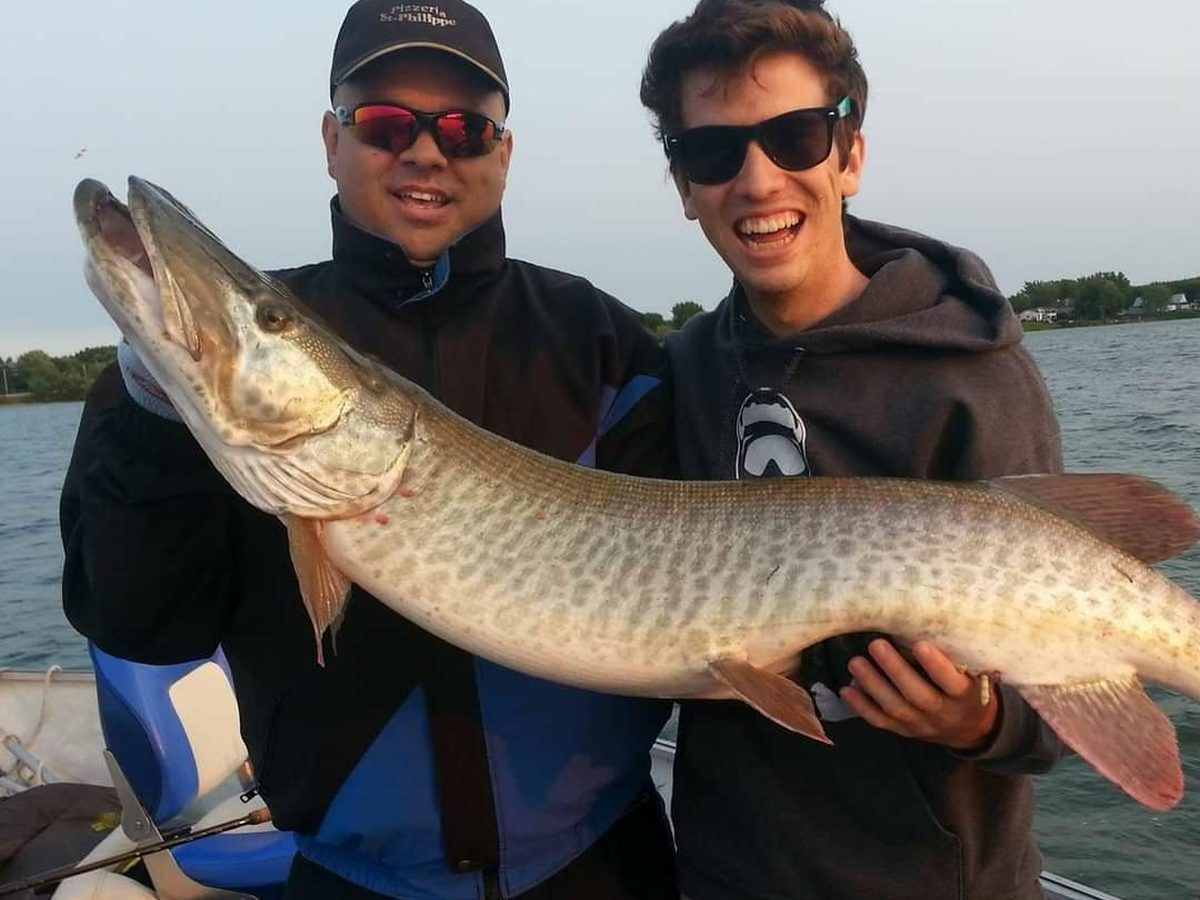
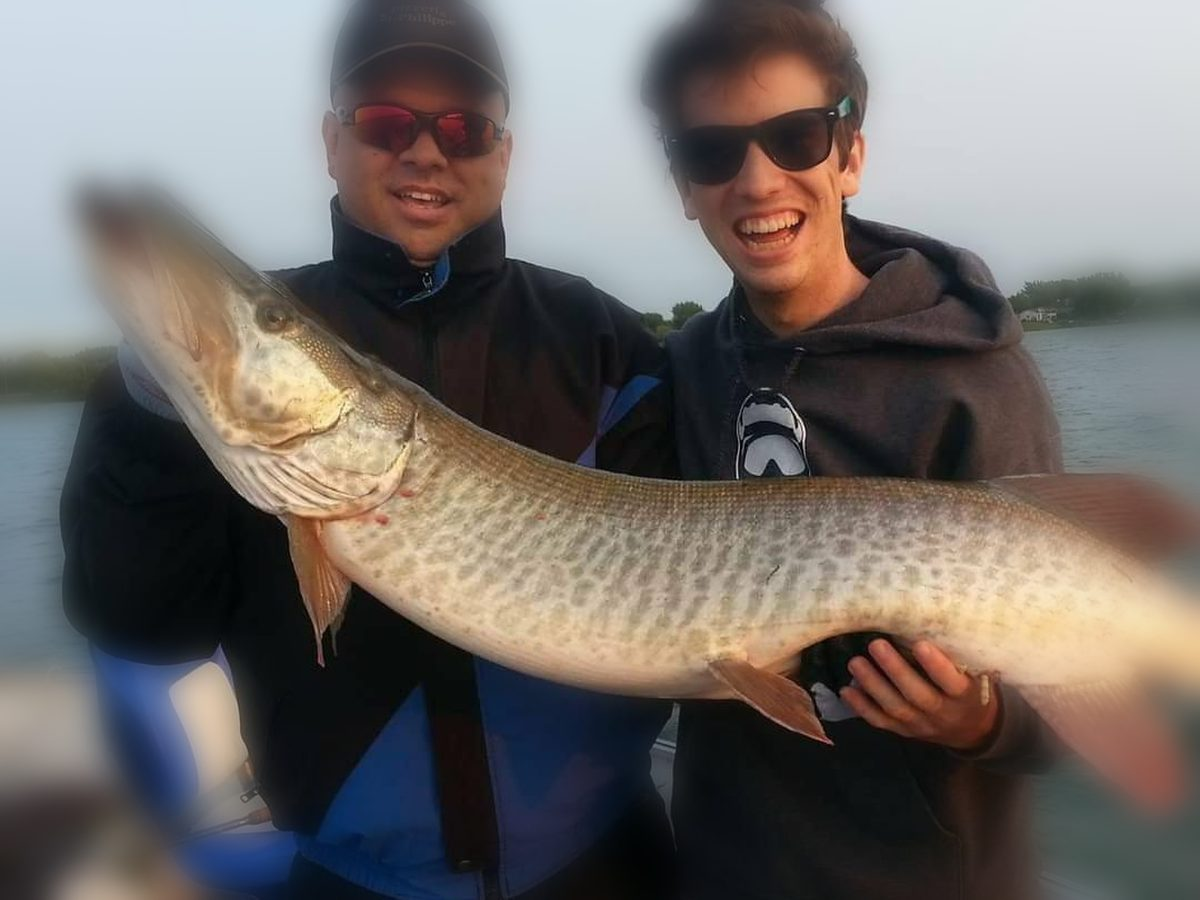
Flouter l'arrière-plan des photos de prises
Une rive, une tour de communication, un quai ou une maison suffisent à
situer un spot. Le décor des quatre photos est maintenant flouté, les
pêcheurs et les poissons restent nets.

Le masque est une union d'ellipses — une par pêcheur, une pour le poisson —
adoucie pour se lire comme une profondeur de champ plutôt qu'une retouche.
Une seule grande ellipse ne suffisait pas : elle englobe forcément ce qui
se trouve entre les sujets, et sur la photo de Kevin B. une tour de
communication passait pile entre les deux têtes. Elle a disparu; les
maisons de l'autre photo aussi.

Les trois images partagées avec la page Équipe sont floutées à la source
plutôt que dupliquées. Ne traiter que les copies des Prises aurait laissé
le décor identifiable sur l'autre page, ce qui n'aurait rien protégé.

Limite assumée : sans détourage automatique, ce qui se trouve directement
derrière une tête reste net. Il n'y reste que de la végétation générique,
aucun repère.

Effet secondaire : les zones floutées se compressent mieux, et les quatre
images pèsent maintenant 484 Ko au lieu de 760.

Claude-Session: https://claude.ai/code/session_01Xpd6edZqGyBhfo224pPL8k

diff --git a/tools/blur-catch-backgrounds.py b/tools/blur-catch-backgrounds.py
@@ -1,0 +1,73 @@
+# -*- coding: utf-8 -*-
+"""Floute l'arrière-plan des photos de prises.
+
+Un spot à maskinongé se garde. Une rive, une tour, un quai suffisent à le
+situer, alors que le poisson et les pêcheurs, eux, doivent rester nets.
+
+La méthode : une zone nette elliptique autour des sujets, un fond flouté,
+et une transition adoucie pour que ça se lise comme une profondeur de champ
+plutôt que comme une retouche.
+
+Les originaux ne sont pas dans le dépôt : garde-les de ton côté, le
+floutage n'est pas réversible une fois publié.
+"""
+from PIL import Image, ImageOps, ImageDraw, ImageFilter
+import os, sys
+
+W, H = 1200, 900
+BLUR = 16          # assez pour effacer une ligne d'arbres ou une tour
+FEATHER = 70       # douceur de la transition
+
+# Le masque est une union d'ellipses, une par sujet plus une pour le poisson.
+# Une seule grande ellipse ne marche pas : elle englobe forcément ce qui se
+# trouve ENTRE les pêcheurs — sur la photo de Kevin B., une tour de
+# communication passait pile entre les deux têtes.
+# Coordonnées en fraction de l'image : (cx, cy, rx, ry).
+JOBS = [
+  ("5fdb2210-image.jpg", "assets/img/team/kevin-caron.jpg", ("fit", 0.45), [
+      (0.50, 0.55, 0.155, 0.45),  # le pêcheur
+      (0.50, 0.68, 0.33, 0.15),   # le saumon
+  ]),
+  ("a1f6e1a8-image.jpg", "assets/img/team/kevin-b.jpg", ("band", 0.13), [
+      (0.40, 0.60, 0.155, 0.42),  # pêcheur de gauche
+      (0.72, 0.58, 0.150, 0.44),  # pêcheur de droite
+      (0.55, 0.62, 0.41, 0.19),   # le maskinongé
+  ]),
+  ("8c0cd388-image.jpg", "assets/img/team/bobe.jpg", ("fit", 0.45), [
+      (0.60, 0.55, 0.145, 0.45),  # le pêcheur
+      (0.48, 0.60, 0.31, 0.21),   # le maskinongé
+  ]),
+  ("ad08cb0e-image.jpg", "assets/img/catches/maskinonge-kevin-b-2.jpg", ("fit", 0.34), [
+      (0.35, 0.56, 0.155, 0.45),  # pêcheur de gauche
+      (0.71, 0.52, 0.165, 0.47),  # pêcheur de droite
+      (0.48, 0.56, 0.43, 0.21),   # le maskinongé
+  ]),
+]
+SRC = "/root/.claude/uploads/fd04c8b1-f2c9-52b0-bd85-87187f0e94aa"
+
+def crop(im, mode):
+    kind, val = mode
+    if kind == "fit":
+        return ImageOps.fit(im, (W, H), Image.LANCZOS, centering=(0.5, val))
+    w, h = im.size
+    ch = int(round(w / (W / H)))
+    top = max(0, min(int(round(h * val)), h - ch))
+    return im.crop((0, top, w, top + ch)).resize((W, H), Image.LANCZOS)
+
+for name, dest, mode, shapes in JOBS:
+    path = os.path.join(SRC, name)
+    if not os.path.exists(path):
+        print("  source absente, ignorée :", name); continue
+    im = crop(ImageOps.exif_transpose(Image.open(path)).convert("RGB"), mode)
+    blurred = im.filter(ImageFilter.GaussianBlur(BLUR))
+
+    mask = Image.new("L", (W, H), 0)
+    d = ImageDraw.Draw(mask)
+    for cx, cy, rx, ry in shapes:
+        d.ellipse([(cx - rx) * W, (cy - ry) * H, (cx + rx) * W, (cy + ry) * H], fill=255)
+    mask = mask.filter(ImageFilter.GaussianBlur(FEATHER))
+
+    out = Image.composite(im, blurred, mask)
+    os.makedirs(os.path.dirname(dest), exist_ok=True)
+    out.save(dest, "JPEG", quality=82, optimize=True, progressive=True)
+    print("  %-44s %.0f Ko" % (dest, os.path.getsize(dest) / 1024))

diff --git a/tools/README.md b/tools/README.md
@@ -15,3 +15,26 @@ node tools/render-sponsor-kit.js
 ```
 
 Les PDF publiés sont dans `assets/docs/`.
+
+## Floutage des arrière-plans de prises
+
+`blur-catch-backgrounds.py` régénère les photos de prises depuis les
+originaux en floutant le décor : une rive, une tour ou un quai suffisent à
+situer un spot, et un spot à maskinongé se garde.
+
+Le masque est une union d'ellipses — une par pêcheur, une pour le poisson —
+adoucie pour se lire comme une profondeur de champ. Une seule grande
+ellipse ne marche pas : elle englobe ce qui se trouve entre les sujets, et
+c'est justement là que passait une tour de communication sur une des
+photos.
+
+Limite connue : sans détourage automatique, ce qui se trouve directement
+derrière une tête reste net. Pour aller plus loin il faut recadrer plus
+serré à la source.
+
+Trois de ces images servent aussi de portraits sur la page Équipe. Elles
+sont partagées volontairement : flouter seulement les copies des Prises
+laisserait le décor identifiable sur l'autre page.
+
+**Les originaux ne sont pas dans le dépôt.** Garde-les de ton côté : le
+floutage n'est pas réversible une fois publié.
